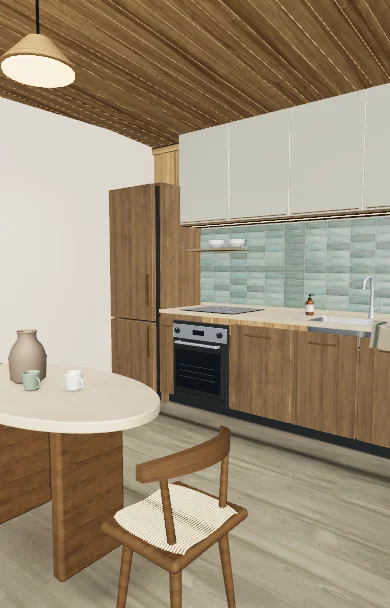
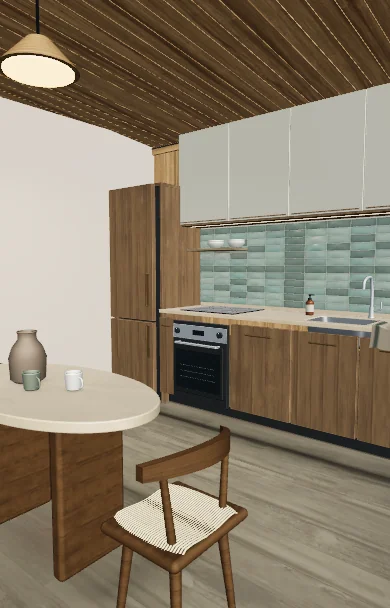
Keep the mobile WebGL roof responsive and recover when a live frame fails

diff --git a/agency-home/pavilion/app.js b/agency-home/pavilion/app.js
@@ -16,7 +16,7 @@ for(const img of document.querySelectorAll('[data-image]'))pictures.observe(img)
 lab(asset);
 const vista=$('#vista'),journey=$('.journey'),settings=new URLSearchParams(location.search),reduced=matchMedia('(prefers-reduced-motion: reduce)');
 if(settings.has('match'))document.documentElement.classList.add('match-camera');
-let room=null,roomMove=null;
+let room=null,roomMove=null,preferWebGL=false;
 let exploring=false,detail=null;
 let intervals=[],lastPaint=0;let world,p=0,paused=reduced.matches,visible=true,time=0,prev=0,id=0,gustAt=-10,manual=null,scrolled=window.scrollY,trace=false,lx=.5,ly=.49,dirty=true;
 function event(name,value){window.dispatchEvent(new CustomEvent('assembl:interaction',{detail:{name,value}}))}
@@ -82,7 +82,10 @@ function frame(now){id=0;if(!world||!visible||document.hidden)return;const delta
    p=roomMove.from+(roomMove.to-roomMove.from)*blend;
    if(step===1)roomMove=null;
  }
- const lift=liftAt(p);prev=now;world.draw(p,time,Math.max(0,1-(time-gustAt)/3.6),lift);titleFrame(p,lift);if(settings.has('profile')){if(lastPaint&&now-lastPaint<250)intervals.push(now-lastPaint);if(intervals.length>500)intervals.shift();lastPaint=now}dirty=false;vista.dataset.position=p.toFixed(3)}
+ const lift=liftAt(p);prev=now;
+ try{world.draw(p,time,Math.max(0,1-(time-gustAt)/3.6),lift)}
+ catch{staticMode('render failed');return}
+ titleFrame(p,lift);if(settings.has('profile')){if(lastPaint&&now-lastPaint<250)intervals.push(now-lastPaint);if(intervals.length>500)intervals.shift();lastPaint=now}dirty=false;vista.dataset.position=p.toFixed(3)}
  if(active||roomMove)id=requestAnimationFrame(frame)}
 function wake(){if(!id)id=requestAnimationFrame(frame)}
 function jump(t,view=null){roomMove=null;finishGarden();setRoom(view==='kitchen'?'kitchen':t===1&&!view?'living':null);stopTour();carry=0;free.leave(false);free.releaseGlance();detail=view;world?.setDetail(view);document.querySelectorAll("[data-detail]").forEach(b=>b.setAttribute("aria-pressed",String(b.dataset.detail===view)));manual=t;p=t;if(!paused&&!reduced.matches){const b=bounds();let u=t<.5?t*2:(t-.5)*2;const inv=.5-Math.sin(Math.asin(1-2*u)/3);const coordinate=settings.has('match')?t:(t<.5?inv*.5:.5+inv*.5);window.scrollTo(0,b.top+coordinate*b.range+(t===1&&!settings.has('match')?Math.min(95,innerHeight*.09):0))}sync();event('pavilion_view',view??t)}
@@ -101,7 +104,10 @@ $('#pause').onclick=()=>{stopTour();paused=!paused;motionLabel();dirty=true;wake
 $('#gust').onclick=()=>{gustAt=time;dirty=true;wake();event('pavilion_gust',true)};
 function staticMode(reason){
  finishGarden();garden=null;gardenButton.hidden=true;stopTour();if(roomMove){p=roomMove.to;roomMove=null}
- free.lost();world=null;window.pavilionStatus=undefined;
+ const failed=world;world=null;window.pavilionStatus=undefined;
+ if(failed?.backend==='WebGPU')preferWebGL=true;
+ free.lost();if(failed){try{failed.renderer.dispose()}catch{}}
+
  titleFrame(0,0);vista.dataset.renderer='still';delete vista.dataset.ready;
  $('#gpu').replaceChildren();journey.classList.add('still');
  $('.scene-controls').hidden=true;enter.hidden=false;enter.disabled=false;
@@ -115,7 +121,7 @@ document.addEventListener('click',e=>{let a=e.target.closest('a');if(a?.closest(
 async function start(signal){
  if(settings.get('renderer')==='still')throw new Error('Still view requested');
  const {openPavilion}=await import('./world.js');signal.throwIfAborted();
- const force=settings.get('renderer')==='webgl';
+ const force=preferWebGL||settings.get('renderer')==='webgl';
  let candidate,drawnP,drawnDetail;
  async function firstFrame(webgl){
   const scene=await openPavilion($('#gpu'),asset,webgl,signal);

diff --git a/agency-home/pavilion/world.js b/agency-home/pavilion/world.js
@@ -20,7 +20,9 @@ export async function openPavilion(host,asset,forceGL=false,signal){
  signal?.addEventListener('abort',abort,{once:true});
  try {
  signal?.throwIfAborted();
- await renderer.init();initialized=true;signal?.throwIfAborted();renderer.setPixelRatio(Math.min(devicePixelRatio,host.clientWidth<=680?1.15:1.55));renderer.shadowMap.enabled=true;
+ await renderer.init();initialized=true;signal?.throwIfAborted();
+ const compactGL=host.clientWidth<=680&&!renderer.backend.isWebGPUBackend;
+ renderer.setPixelRatio(Math.min(devicePixelRatio,compactGL?1:host.clientWidth<=680?1.15:1.55));renderer.shadowMap.enabled=true;
  renderer.shadowMap.type=T.PCFShadowMap;renderer.toneMapping=T.ACESFilmicToneMapping;renderer.toneMappingExposure=1.13;
  const scene=new T.Scene(), camera=new T.PerspectiveCamera(45,1,.065,1000),cube=new T.BoxGeometry(),matrix=new T.Matrix4(),q=new T.Quaternion();
  const v=(x=0,y=0,z=0)=>new T.Vector3(x,y,z);
@@ -42,7 +44,7 @@ export async function openPavilion(host,asset,forceGL=false,signal){
  }
  let refined=false;
  async function refine(){if(refined)return;refined=true;
-   await refineApertures().catch(()=>{});
+   if(!compactGL)await refineApertures().catch(()=>{});
    while(refinements.length){await Promise.allSettled(refinements.splice(0,2).map(load=>load()))}
  }
  const [sky,wood,blackwood,grit,chair,terrain]=await Promise.all([
@@ -217,7 +219,7 @@ const floorBase=mat(0x5c584e);box(0,.034,0,14.20,.042,4.12,floorBase);
  addSedges({scene,range,rand,timeNode:windTime,gustNode:gustStrength});finePanicles(scene,windTime,gustStrength);
  const hemi=new T.HemisphereLight(0xe5edf2,0x99968b,.24);scene.add(hemi);
  const sun=new T.DirectionalLight(0xfff2da,2.6);sun.position.set(.6390*30,.6128*30,.4649*30);sun.target.position.set(0,0,0);scene.add(sun,sun.target);sun.castShadow=true;
- Object.assign(sun.shadow.camera,{left:-18,right:18,top:14,bottom:-13,near:.2,far:65});sun.shadow.mapSize.set(2048,2048);sun.shadow.normalBias=.003;sun.shadow.bias=-.00007;
+ Object.assign(sun.shadow.camera,{left:-18,right:18,top:14,bottom:-13,near:.2,far:65});const shadowSize=compactGL?1024:2048;sun.shadow.mapSize.set(shadowSize,shadowSize);sun.shadow.normalBias=.003;sun.shadow.bias=-.00007;
  const fill=new T.DirectionalLight(0xe4eef6,.12);fill.position.set(2,6,-3);scene.add(fill);
  for(const x of [-3,3]){const lamp=new T.SpotLight(0xffead2,3.3,5,1.04,.86,2);lamp.position.set(x,2.64,.20);lamp.target.position.set(x,.35,-.65);scene.add(lamp,lamp.target)}
  // Area emitters fill the actual apertures. They provide broad indoor sky transport without point hotspots.
@@ -245,6 +247,8 @@ const floorBase=mat(0x5c584e);box(0,.034,0,14.20,.042,4.12,floorBase);
  const around=()=>{let x,z;do{x=range(-17,16);z=range(-8,16)}while(!plantable(x,z));return [x,z]};
  const fernHollow=()=>{let x,z;do{x=range(-13,8);z=range(2,11)}while(!plantable(x,z));return [x,z]};
  async function refinePlanting(){
+  // The procedural coastal planting is already present. Skip the three scanned layers on small WebGL devices.
+  if(compactGL)return;
  const [fern,shrub,grass]=await Promise.all(['fern_02','shrub_03','grass_medium_01'].map(n=>glLoader.loadAsync(asset(n+'.glb'))));
  scanPlant(fern,77,[.91,1.36],fernHollow,.02);scanPlant(shrub,88,[1.21,2.37],around,.016,true);scanPlant(grass,450,[1.9,3.3],around,.024);
  // Shade-tolerant fronds emerge between the open eastern bays, with the central pile faces still visible.
